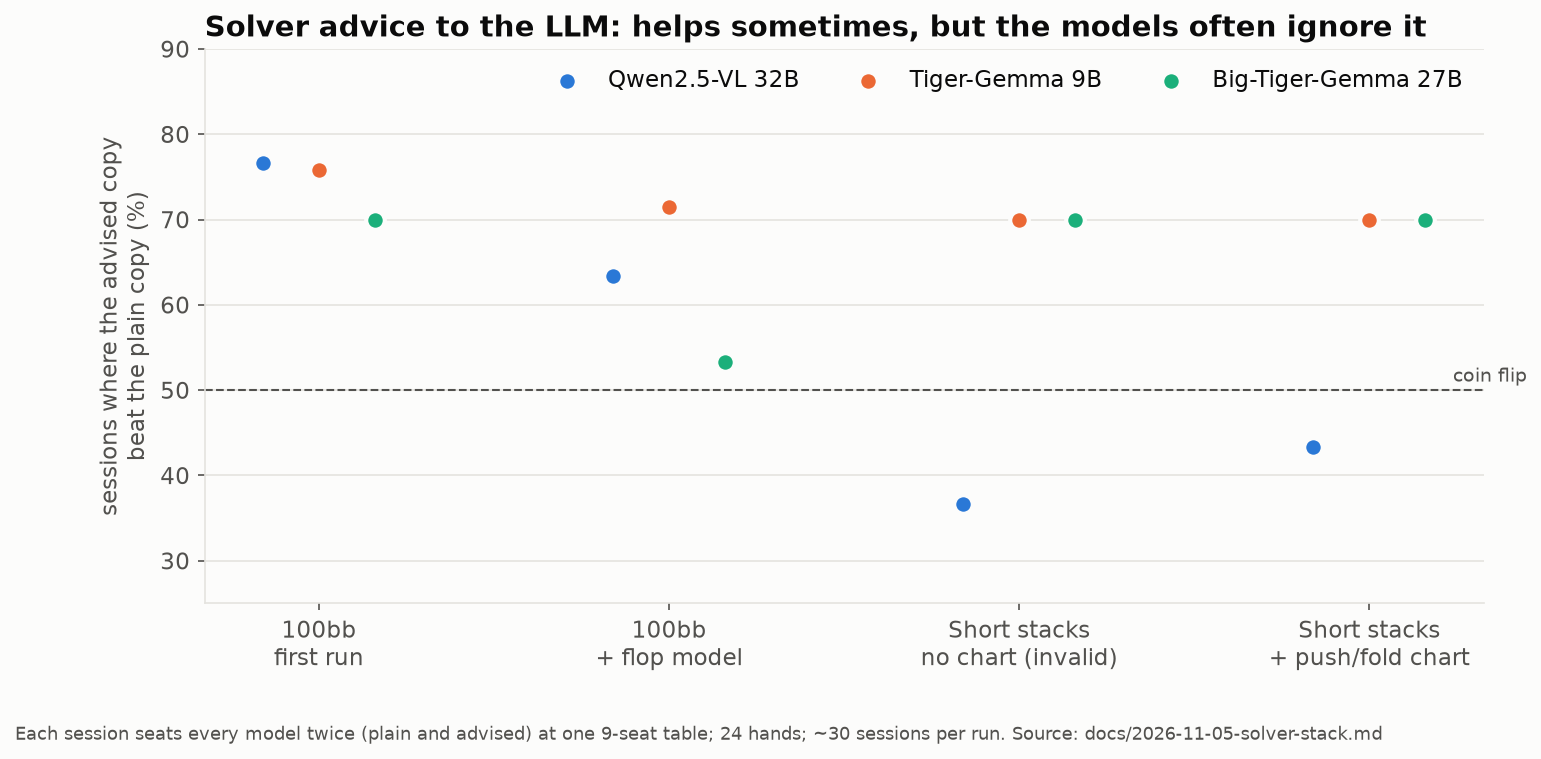
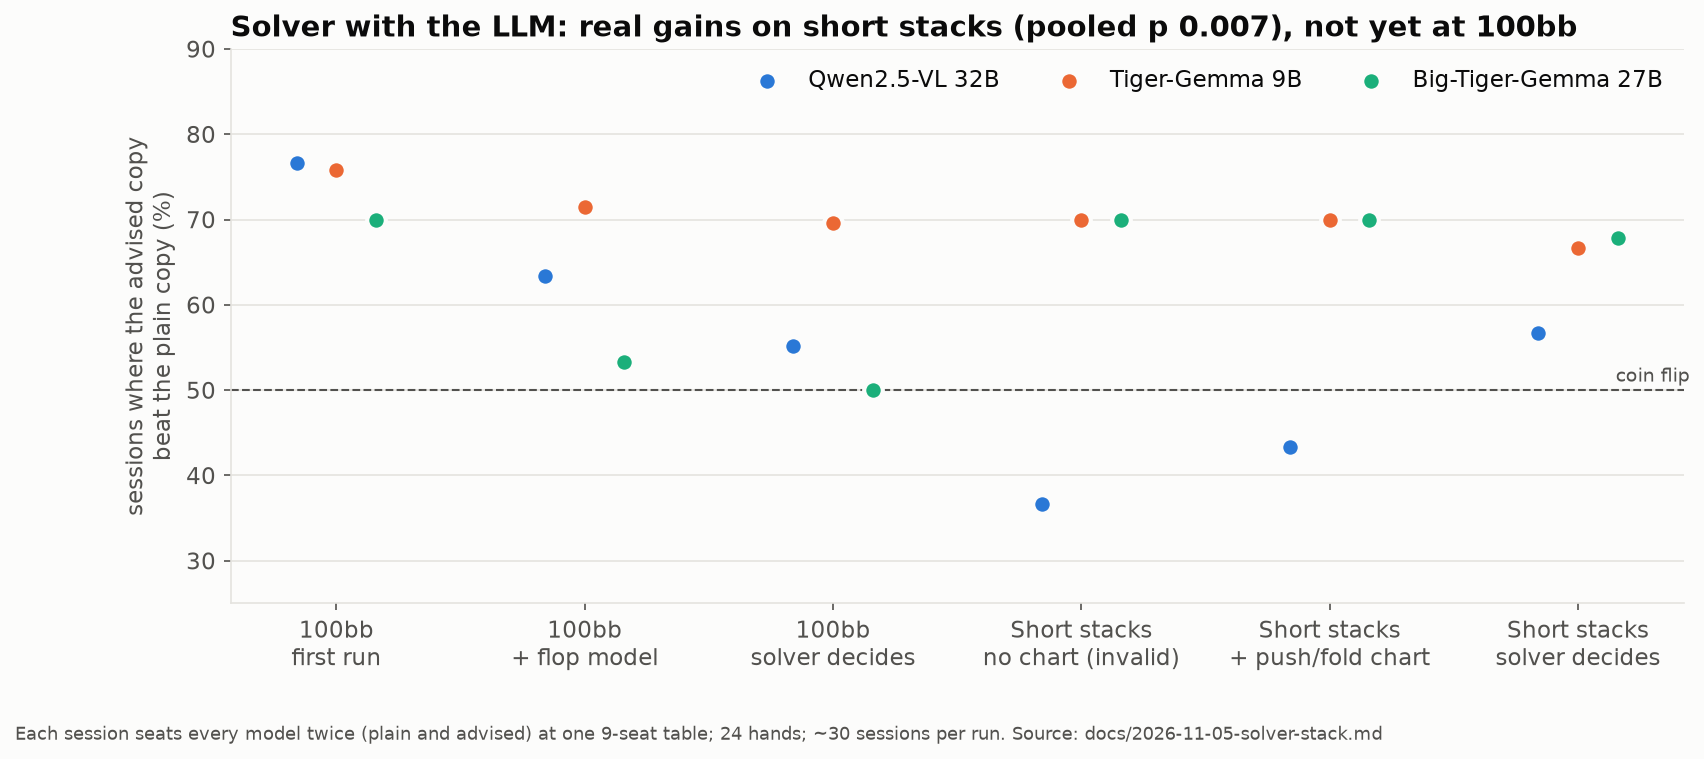
Solver-plays 100bb results; partner chart and README updated

diff --git a/llm-research/scripts/partner_charts.py b/llm-research/scripts/partner_charts.py
@@ -151,12 +151,14 @@ def advice_tests():
     runs = [
         ("100bb\nfirst run", (23 / 30, 22 / 29, 21 / 30)),
         ("100bb\n+ flop model", (19 / 30, 20 / 28, 16 / 30)),
+        ("100bb\nsolver decides", (16 / 29, 16 / 23, 15 / 30)),
         ("Short stacks\nno chart (invalid)", (11 / 30, 21 / 30, 21 / 30)),
         ("Short stacks\n+ push/fold chart", (13 / 30, 21 / 30, 21 / 30)),
+        ("Short stacks\nsolver decides", (17 / 30, 20 / 30, 19 / 28)),
     ]
-    fig, ax = plt.subplots(figsize=(11, 4.8))
+    fig, ax = plt.subplots(figsize=(12.5, 4.8))
     ax.axhline(50, color=INK2, lw=1, ls="--")
-    ax.text(3.45, 51, "coin flip", fontsize=9, color=INK2, ha="right")
+    ax.text(len(runs) - 0.55, 51, "coin flip", fontsize=9, color=INK2, ha="right")
     for k, (name, col) in enumerate(MODELS):
         xs = [i + (k - 1) * 0.16 for i in range(len(runs))]
         ys = [r[1][k] * 100 for r in runs]
@@ -166,7 +168,7 @@ def advice_tests():
     ax.set_ylabel("sessions where the advised copy\nbeat the plain copy (%)")
     ax.grid(axis="x", visible=False)
     ax.legend(frameon=False, ncol=3, loc="upper right")
-    ax.set_title("Solver advice to the LLM: helps sometimes, but the models often ignore it")
+    ax.set_title("Solver with the LLM: real gains on short stacks (pooled p 0.007), not yet at 100bb")
     save(
         fig,
         "04-advice-tests.png",

diff --git a/llm-research/docs/2026-11-05-solver-stack.md b/llm-research/docs/2026-11-05-solver-stack.md
@@ -69,6 +69,13 @@ the solver decides. Results: `results/solverplays/`, `results/solverplays_short/
   junk the solver folds that the plain Tigers limp with.
 - **Qwen gains nothing either way:** its own short-stack play is already about as good as the chart here.
 
+**100bb, solver acting (`results/solverplays/`, 30 sessions):** Tiger-Gemma 9B +44.3 chips a session (t 1.15),
+Big-Tiger +26.1 (t 0.98), Qwen −1.7 (t −0.05); pooled ahead in 47 of 82 sessions (p 0.11), +22.9 (t 1.17). Not
+significant, and below the advice-with-flop-model run (pooled 55 of 88, p 0.012). At 100bb the solver covers only
+heads-up flops (150 decisions), turns and rivers (265); **every pre-flop decision is still the model's**, and
+100bb pots are large and noisy. The missing piece is a deep-stack pre-flop strategy (open, 3-bet and call ranges by
+position), the analogue of the push/fold chart.
+
 ## Layers
 
 | Street | What answers it | Speed |

diff --git a/llm-research/media/partner/README.md b/llm-research/media/partner/README.md
@@ -24,4 +24,4 @@ committed results; every chart names its source.
 | 07 | [Trading arena](07-trading.png) | The paper's regime gate adds nothing after costs; the model's own judgement does |
 | 08 | [Self-learning ladder](08-self-learning-ladder.png) | Models that rewrite their own skill notes: one clear learner after 58 rounds |
 
-Still running: the solver-acts-itself test at 100bb and at 5-20bb (30 sessions each); results follow.
+Latest, the solver deciding itself: short stacks ahead in 56 of 88 sessions (p 0.007), the same gain as advice; 100bb ahead in 47 of 82 (p 0.11), where every pre-flop decision is still the model's.
